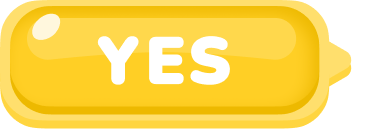
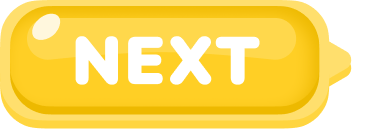
Feat: Added Instruction screen

Changed region(s): [[0.1769, 0.2791, 0.7078, 0.6822]]

diff --git a/src/styles/InstructionCards.module.scss b/src/styles/InstructionCards.module.scss
@@ -1,0 +1,107 @@
+@use "./Base/" as *;
+
+.instructionContainer {
+  display: flex;
+  justify-content: space-between;
+  flex-wrap: wrap;
+  margin-top: 240px;
+  padding: 0 40px;
+  position: relative;
+
+  .bgPath {
+    position: absolute;
+    display: flex;
+    justify-content: center;
+    align-items: center;
+    width: 100%;
+    height: 100%;
+    transform: scale(0.8);
+  }
+
+  .cardContainer {
+    width: 351px;
+    height: 438px;
+    border-radius: 69px;
+    background: $white;
+    display: flex;
+    flex-direction: column;
+    justify-content: space-between;
+    padding: 22px 50px;
+    box-sizing: border-box;
+    position: relative;
+
+    .imageContainer {
+      width: 100%;
+      height: 250px;
+      display: flex;
+      justify-content: center;
+      align-items: center;
+
+      img {
+        object-position: top left;
+      }
+    }
+
+    &:nth-child(4) {
+      .imageContainer {
+        img {
+          transform: translate(-10px, 60px);
+        }
+      }
+    }
+
+    .numberTag {
+      position: absolute;
+      left: 0px;
+      top: 280px;
+
+      .tagBg {
+        position: absolute;
+        z-index: 0;
+      }
+
+      p {
+        position: relative;
+        z-index: 1;
+        font-family: Nunito;
+        font-size: 36px;
+        font-weight: 800;
+        letter-spacing: 0.02em;
+        text-align: center;
+        color: $white;
+        transform: translate(10px, -24px);
+      }
+    }
+
+    .subDescription {
+      font-family: Nunito;
+      font-size: $font-24;
+      font-weight: 800;
+      line-height: 33px;
+      letter-spacing: 0em;
+      text-align: center;
+      color: $text-green;
+    }
+
+    .description {
+      font-family: Nunito;
+      font-size: 40px;
+      font-weight: 800;
+      line-height: 55px;
+      letter-spacing: 0em;
+      text-align: center;
+      color: $text-color;
+    }
+
+    .cardShadow {
+      position: absolute;
+      bottom: -40px;
+      left: -40px;
+      width: 430px;
+      height: 62px;
+      border-radius: 50%;
+      background: $card-shadow-gradient;
+      z-index: -1;
+    }
+  }
+}

diff --git a/src/components/FirstScreen.tsx b/src/components/FirstScreen.tsx
@@ -1,5 +1,5 @@
 /* //* Packages Import */
-import { useContext } from "react";
+import { useContext, useRef } from "react";
 
 /* //* Utils Import */
 import { AppContext } from "src/App";
@@ -10,11 +10,19 @@ import monkey from "src/assets/monkey.png";
 
 /* //* Styles Import */
 import Styles from "src/styles/Homepage.module.scss";
+import InstructionCards from "./InstructionCards";
 
 const FirstScreen = () => {
+  const audioRef = useRef<HTMLAudioElement>(null);
   const state = useContext(AppContext);
 
-  const handleNextStep = () => state?.setSteps((prev) => prev + 1);
+  const handleNextStep = () => {
+    state?.setSteps((prev) => prev + 1);
+    if (audioRef.current) {
+      audioRef.current.currentTime = 0;
+      audioRef.current.play();
+    }
+  };
 
   const handleBackButton = () => state?.setSteps((prev) => prev - 1);
 
@@ -25,20 +33,25 @@ const FirstScreen = () => {
           <img
             src={getImage("backButton", state?.steps as number)}
             loading="lazy"
-            alt="monkey"
+            alt="back Button"
           />
         </button>
       )}
-      <div className={Styles.monkey}>
-        <img src={monkey} loading="lazy" alt="monkey" />
-      </div>
-      <div className={Styles.textBubble}>
-        <img
-          src={getImage("bubble", state?.steps as number)}
-          loading="lazy"
-          alt="textBubble"
-        />
-      </div>
+      {state?.steps && state?.steps <= 3 && (
+        <div className={Styles.monkey}>
+          <img src={monkey} loading="lazy" alt="monkey" />
+        </div>
+      )}
+      {state?.steps && state?.steps <= 3 && (
+        <div className={Styles.textBubble}>
+          <img
+            src={getImage("bubble", state?.steps as number)}
+            loading="lazy"
+            alt="textBubble"
+          />
+        </div>
+      )}
+      {state?.steps && state?.steps === 4 && <InstructionCards />}
       <div className={Styles.buttonContainer}>
         <button className={Styles.actionButton} onClick={handleNextStep}>
           <img

diff --git a/src/components/InstructionCards.tsx b/src/components/InstructionCards.tsx
@@ -1,0 +1,46 @@
+/* //* Assets Import */
+import tag from "src/assets/numberTag.svg";
+import path from "src/assets/bgPath.svg";
+
+/* //* Data Import */
+import { CARD_DATA } from "src/data/InstructionsData";
+
+/* //* Styles Import */
+import Styles from "src/styles/InstructionCards.module.scss";
+
+const InstructionCards = () => {
+  return (
+    <div className={Styles.instructionContainer}>
+      <img
+        src={path}
+        loading="lazy"
+        alt="background path"
+        className={Styles.bgPath}
+      />
+      {CARD_DATA.map((card) => (
+        <div className={Styles.cardContainer} key={card.id}>
+          <div className={Styles.imageContainer}>{card?.img}</div>
+          <div className={Styles.numberTag}>
+            <div className={Styles.tagBg}>
+              <img src={tag} loading="lazy" alt="number tag" />
+            </div>
+            <p>0{card?.id}</p>
+          </div>
+          {card?.secondSubDescription && (
+            <div className={Styles.subDescription}>
+              {card.secondSubDescription}
+            </div>
+          )}
+          <div className={Styles.description}>{card.description}</div>
+          {card?.secondDescription && (
+            <div className={Styles.description}>{card.secondDescription}</div>
+          )}
+          <div className={Styles.subDescription}>{card.subDescription}</div>
+          <div className={Styles.cardShadow}></div>
+        </div>
+      ))}
+    </div>
+  );
+};
+
+export default InstructionCards;

diff --git a/src/data/InstructionsData.tsx b/src/data/InstructionsData.tsx
@@ -1,0 +1,27 @@
+import card1 from "src/assets/cardImage1.png";
+import card2 from "src/assets/cardImage2.png";
+import card3 from "src/assets/cardImage3.png";
+
+export const CARD_DATA = [
+  {
+    id: 1,
+    description: "Select a ",
+    secondDescription: "pink card.",
+    subDescription: "It has images.",
+    img: <img src={card1} loading="lazy" alt="card" />,
+  },
+  {
+    id: 2,
+    description: "Select a ",
+    secondDescription: "blue card.",
+    subDescription: "It has alphabets.",
+    img: <img src={card2} loading="lazy" alt="card" />,
+  },
+  {
+    id: 3,
+    secondSubDescription: "If they’re same",
+    description: "Its a match !",
+    subDescription: "otherwise retry :(",
+    img: <img src={card3} loading="lazy" alt="card" />,
+  },
+];

diff --git a/src/utils/utils.tsx b/src/utils/utils.tsx
@@ -5,6 +5,7 @@ import bubble3 from "../assets/textBubble3.png";
 import buttonImg1 from "../assets/actionButton1.png";
 import buttonImg2 from "../assets/actionButton2.png";
 import buttonImg3 from "../assets/actionButton3.png";
+import buttonImg4 from "../assets/actionButton4.png";
 import backButton from "../assets/back.png";
 
 export const getImage = (
@@ -24,6 +25,8 @@ export const getImage = (
       return buttonImg2;
     case type === "button" && pageNumber === 3:
       return buttonImg3;
+    case type === "button" && pageNumber === 4:
+      return buttonImg4;
     case type === "backButton":
       return backButton;
   }

diff --git a/src/pages/Homepage.tsx b/src/pages/Homepage.tsx
@@ -14,7 +14,7 @@ const Homepage = () => {
   const state = useContext(AppContext);
   return (
     <div className={Styles.homepage}>
-      {state?.steps && state?.steps <= 3 && <FirstScreen />}
+      {state?.steps && state?.steps <= 4 && <FirstScreen />}
     </div>
   );
 };

diff --git a/src/styles/Base/_colors.module.scss b/src/styles/Base/_colors.module.scss
@@ -1,1 +1,7 @@
 $text-color: #11aec6;
+$white: #fff;
+$text-green: #a6c930;
+
+$card-shadow-gradient: linear-gradient(0deg, #9fc514, #9fc514),
+  linear-gradient(0deg, #9fc514, #9fc514),
+  linear-gradient(0deg, #9fc514, #9fc514);

diff --git a/src/index.css b/src/index.css
@@ -12,3 +12,11 @@ code {
   font-family: source-code-pro, Menlo, Monaco, Consolas, 'Courier New',
     monospace;
 }
+
+button {
+  transition: all 0.1s ease-in-out;
+}
+
+button:hover {
+  transform: scale(0.95);
+}

diff --git a/src/styles/Homepage.module.scss b/src/styles/Homepage.module.scss
@@ -103,5 +103,9 @@
     background: transparent;
     border: none;
     cursor: pointer;
+
+    img {
+      width: 154px;
+    }
   }
 }
